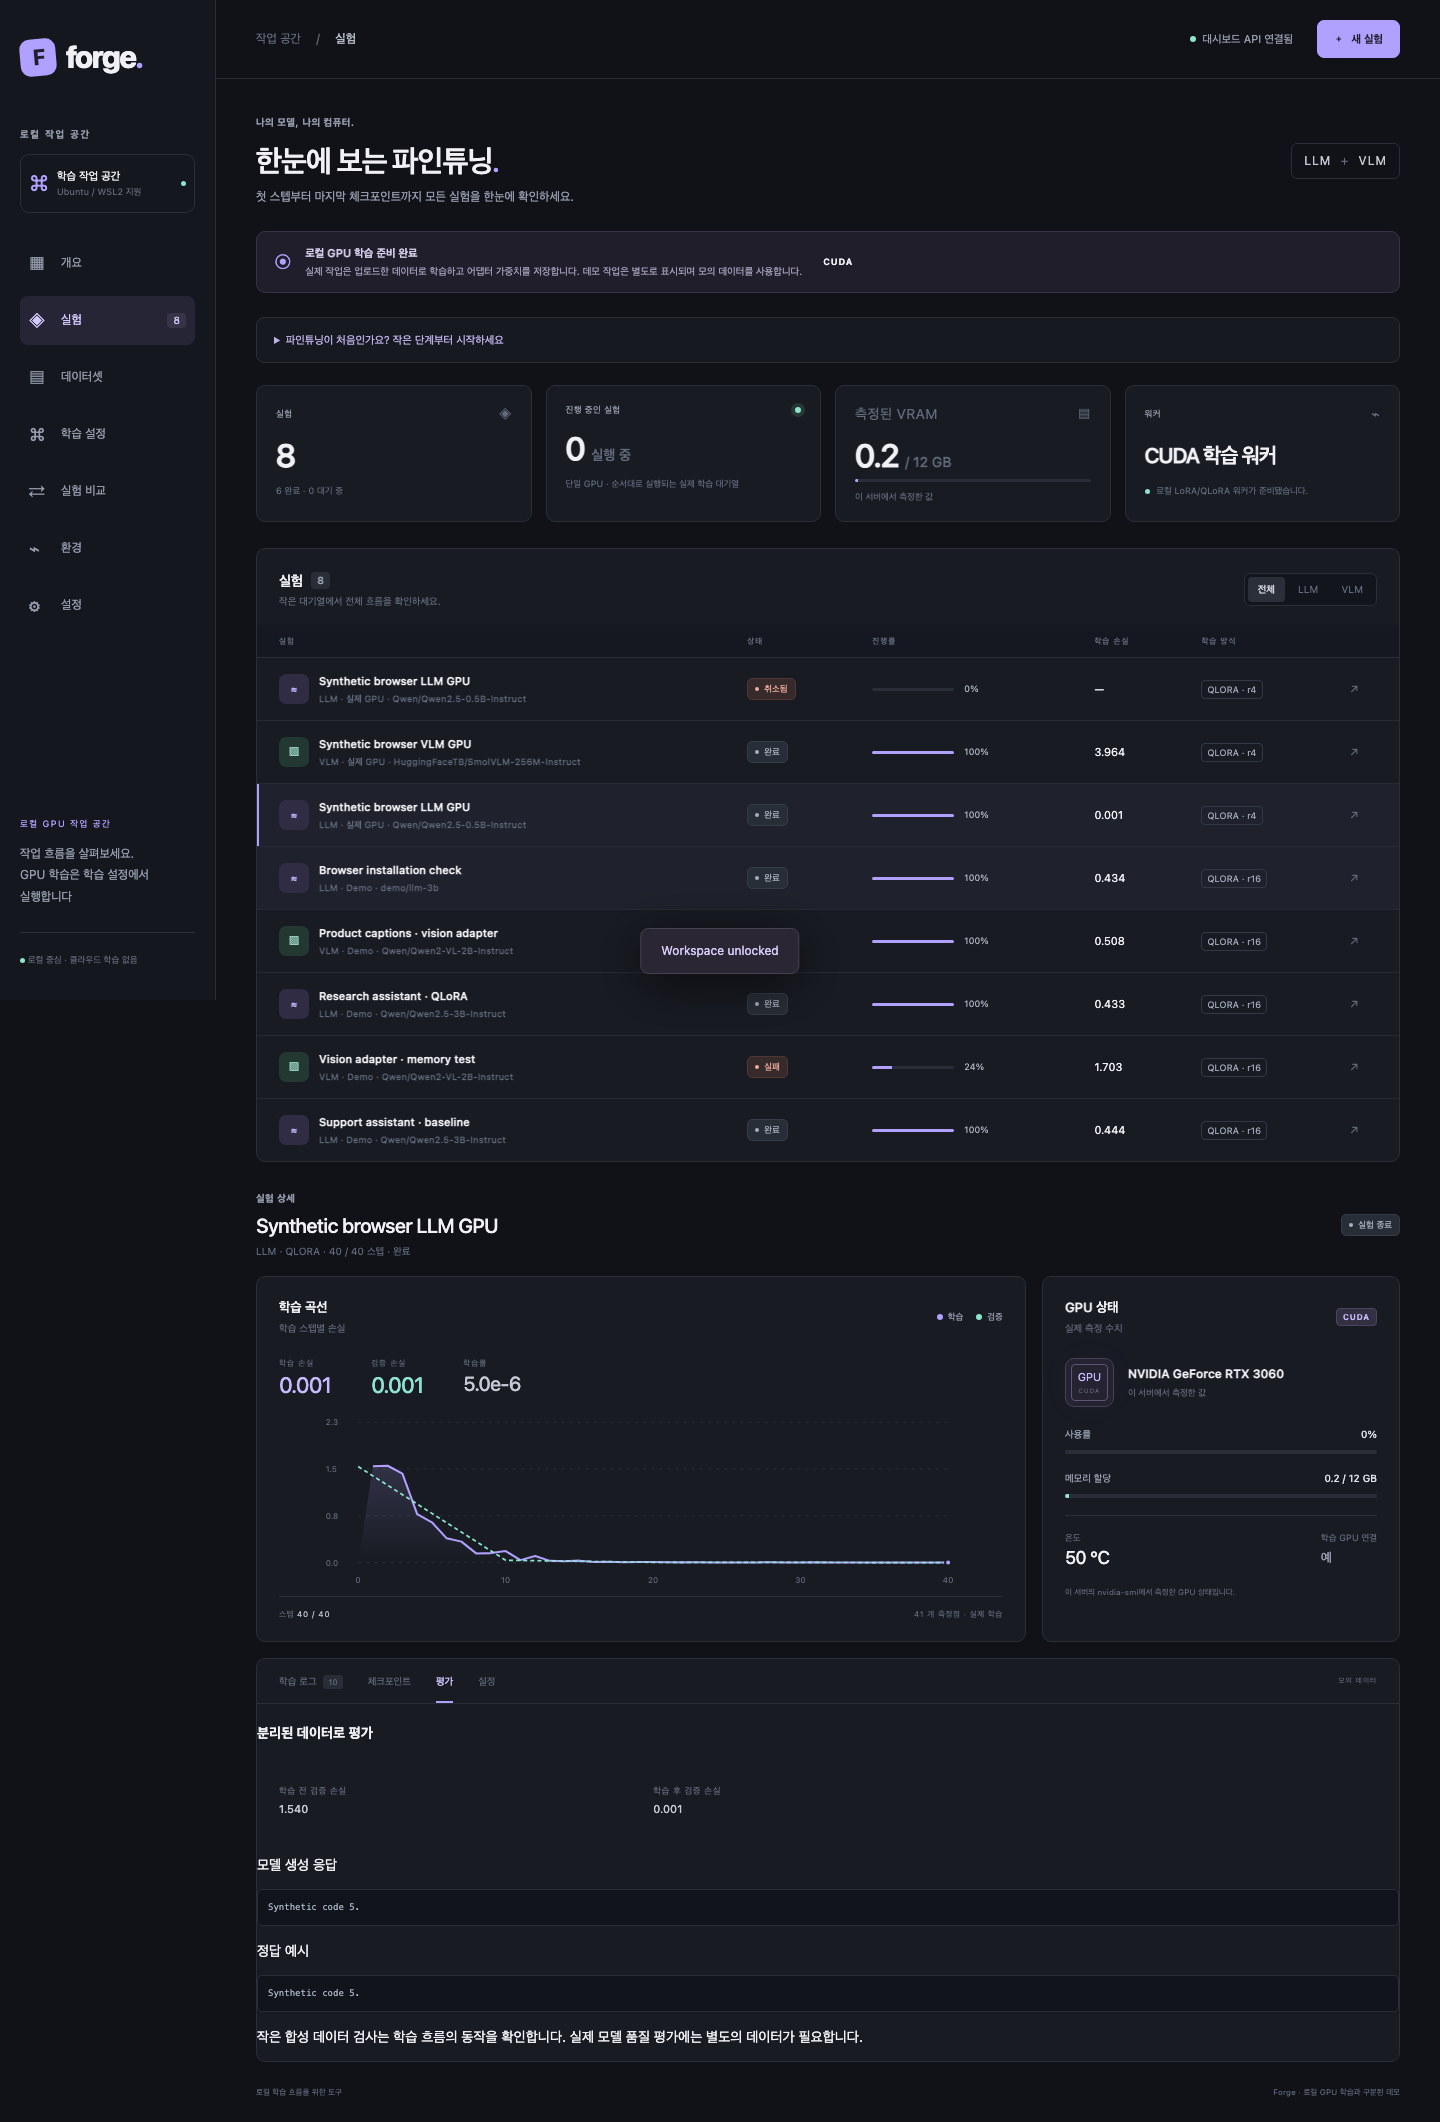
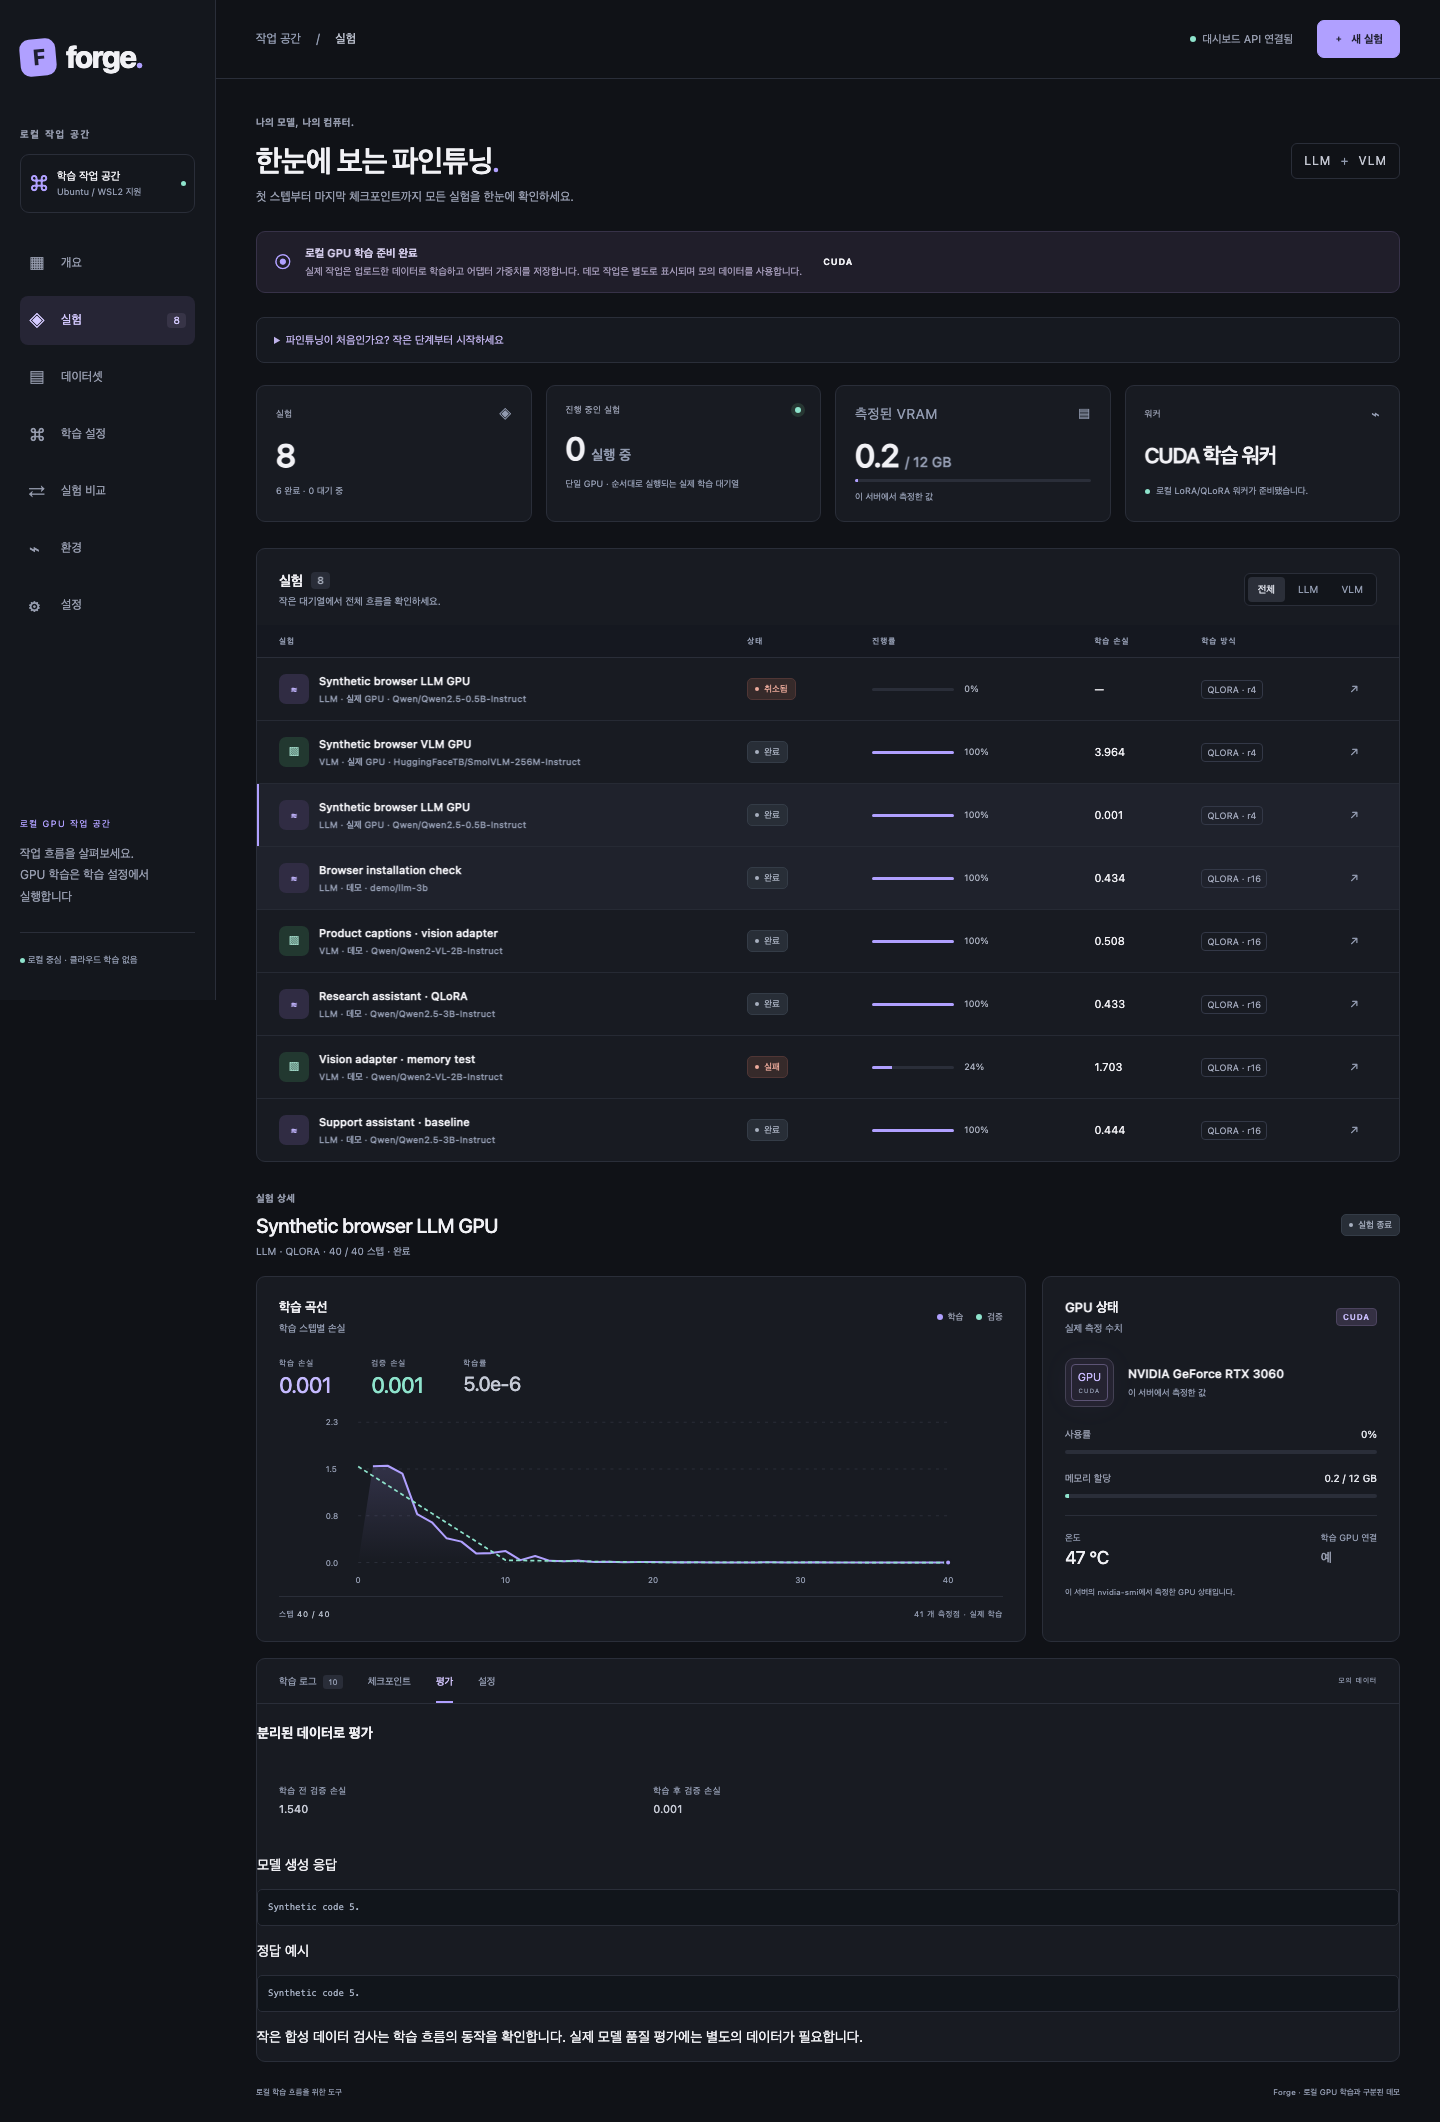
Record successful real one-hour session expiry validation

Changed region(s): [[0.4688, 0.4354, 0.5312, 0.4665]]

diff --git a/docs/validation.md b/docs/validation.md
@@ -39,7 +39,7 @@ PyTorch 2.8.0+cu128, Transformers 4.57.1, PEFT 0.17.1, bitsandbytes 0.48.1, NVID
 | 세션 만료 경계·재로그인 | PASS | 격리된 실제 HTTP/Chromium에서 인증 시계를 주입: 3599초 200 → 3600초 401, 로그인 창 표시와 재로그인 200. 운영 설정은 3600초 유지 |
 | Safari 네이티브 언어 메뉴 | PASS | Space로 메뉴 열기, 방향키/Enter로 영어·한국어 선택, 한국어 복귀 확인 |
 | WCAG A/AA 자동 검사 | PASS | axe-core: 로그인, 7개 화면, 상세 탭, 모바일을 포함한 16개 화면의 위반 0. 보조 텍스트·차트 대비, 입력 경계와 포커스 표시 보완 |
-| 실제 1시간 세션 대기 | 진행 중 | 운영 HTTPS의 독립 브라우저 세션에서 시계 주입 없이 유지 중. 원본 쿠키로 서버 만료와 UI 재로그인을 검사 |
+| 실제 1시간 세션 대기 | PASS | 운영 HTTPS에서 시계 주입 없이 원본 쿠키 유지: 3590초 HTTP 200 → 3605초 HTTP 401. 로그인 창 표시와 재로그인 HTTP 200 확인 |
 | 전체 보조기술 감사 | 미실행 | Safari 접근성 트리의 이름·역할은 확인. VoiceOver/NVDA 전체 시나리오와 수동 WCAG 적합성 인증은 별도 |
 | 큰 모델·다중 GPU·원격 worker·full fine-tuning | 미지원 | 지원 범위는 README 모델 두 개의 로컬 LoRA/QLoRA |
 | 업무 데이터 품질 benchmark | 미검증 | 사용자 업무 데이터와 별도 평가 suite는 사용하지 않음 |
